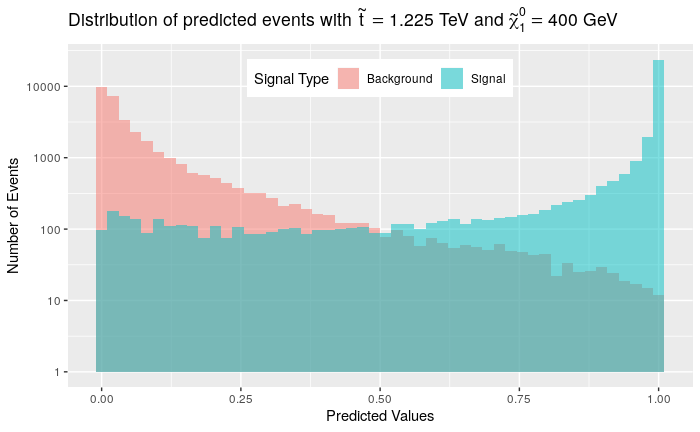
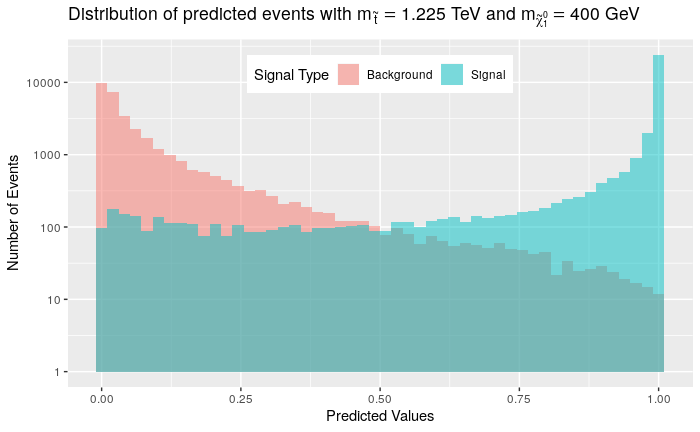
Updates from Overleaf

diff --git a/Sections/Results.tex b/Sections/Results.tex
@@ -9,26 +9,28 @@
 \section{Performance of the classifiers}
 %-------------------------------------------------------------------------%
 %\subsection{Benchmark 1: \texorpdfstring{$\Tilde{t} = 1.2$}{ } TeV and \texorpdfstring{$\Tilde{\chi}_1^0 = 600$}{ } GeV}
-An initial measure to visually understand how our classifiers have performed, a simple Receiver operating characteristic (ROC) curve can be constructed. A ROC curve shows the distribution of the predicted values given between 0 and 1, as a function of FP rate versus TP rate. This allows us to understand how much error we are willing to accept/reject for a given model, where we can produce histograms to observe where the optimum cut-off may be (see Figures \ref{fig:dist_bm1}-\ref{fig:dist_bm_in}. The ROC curve produced for all four benchmark data is presented in Figure \ref{fig:ROC} showing excellent performance across. As expected, however, the benchmark set corresponding to mass parameters within the exclusion curve (benchmark4: $\Tilde{t} = 750$ GeV and $\Tilde{\chi}_1^0 = 1$ GeV) performed the worst amongst the four due to the smaller mass difference between the stops and neutralinos. We also note that the datasets performed better as the mass difference became larger, which is also an expected behavior as the larger mass difference creates more energetic (anti)tops, consequently, more missing energy. This allowed the classifier to pick up such signatures easily, and we suspect that the missing energy's magnitude is the most influential variable the classifier has used when performing its splits. \\
+An initial measure to visually understand how our classifiers have performed, a simple Receiver operating characteristic (ROC) curve can be constructed. A ROC curve shows the distribution of the predicted values given between 0 and 1, as a function of FP rate versus TP rate. This allows us to understand how much error we are willing to accept/reject for a given model, where we can produce histograms to observe where the optimum cut-off may be (see Figures \ref{fig:dist_bm1}-\ref{fig:dist_bm_in}. The ROC curve produced for all four benchmark data is presented in Figure \ref{fig:ROC} showing excellent performance across. As expected, however, the benchmark set corresponding to mass parameters within the exclusion curve (Benchmark4: $m_{\Tilde{t}} = 750$ GeV and $m_{\Tilde{\chi}_1^0} = 1$ GeV) performed the worst amongst the four due to the smaller mass difference between the stops and neutralinos. We also note that the datasets performed better as the mass difference became larger, which is also an expected behavior as the larger mass difference creates more energetic (anti)tops, consequently, more missing energy. This allowed the classifier to pick up such signatures easily, and we suspect that the missing energy's magnitude is the most influential variable the classifier has used when performing its splits. \\
 
 
 \begin{figure}[htbp]
     \centering
-    \includegraphics[width=0.4\linewidth]{ROC_curve.png}
-    \caption{ROC curve for all 4 benchmark points. The forth benchmark corresponding to masses within the exclusion curve performed least well, where the remaining three performed slightly better when the mass difference between the stops and neutralinos became larger.}
+    \includegraphics[width=0.5\linewidth]{ROC_curve.png}
+    \caption{ROC curve for all 4 benchmark points. The forth benchmark corresponding to masses within the exclusion curve performed least well, where the remaining three performed slightly better when the mass difference between the stops and neutralinos become larger.}
     \label{fig:ROC}
 \end{figure} 
 
-Although the Area-under-the-curve (AUC) value is given in Figure \ref{fig:ROC}, it is maximized and does not directly represent the accuracy of our models. The accuracy of our models can be obtained by setting a cut-off to our predictions i.e. a number between 0 and 1. The closer the value is to 1 the lower the accuracy, but deliberately obtaining a high accuracy by setting a smaller value is also conter-intuitive as the Signal-to-Noise Ratio (SBR) will be smaller. Through various trials in cut-off values, it was determined for all four datasets that 0.75 is the optimal value to satisfy both high accuracy and high SBR. \\
+Although the area-under-the-curve (AUC) value is given in Figure \ref{fig:ROC}, it only signifies the maximum possible accuracy the classifier is capable of producing, provided the correct threshold, and so does not directly represent the accuracy of our models. The accuracy of our models can be obtained by setting a cut-off to our predictions i.e. a number between 0 and 1. The closer the value is to 1 the lower the accuracy, but deliberately obtaining a high accuracy by setting a smaller value is also counter-intuitive as the SBR for the luminosity-normalized expected events (Equation (\ref{eq:N})) will not be maximized. Through various trials in cut-off values by observing the distribution of the predicted values shown in Figures \ref{fig:dist_bm1}\textemdash\ref{fig:dist_bm_in}, it was determined for all four datasets that 0.75 is the optimal value to satisfy both high accuracy and high SBR. A summary of values obtained for each datasets are provided in Tables \ref{tab:Values1}\textemdash\ref{tab:Values_in}. \\
 
-For the benchmark point $\Tilde{t} = 1.2$ TeV and $\Tilde{\chi}_1^0 = 600$ GeV, the classifier performed quite well, producing a result of above $90\%$ accuracy. It is expected that the classifier performed less accurately when dealing with signal-like events. It correctly identified a smaller portion of true signal events and incorrectly classified more signal-like background events, as seen in Table \ref{tab:Values1}. The number of expected number of signal is significantly less than the expected number of background, producing an AMS value of 0.1. Considering the definition of AMS given in Section \ref{sec:metrics}, it supports the exclusion limit in Figure \ref{fig:limits}. \\
+For the benchmark point with masses $m_{\Tilde{t}} = 1.2$ TeV and $m_{\Tilde{\chi}_1^0} = 600$ GeV, the classifier performed quite well, producing a result of $91.4 \pm 0.2 \%$ accuracy. It is expected that the classifier performed less accurately when dealing with signal events as it correctly identified a smaller portion of true signal events and incorrectly classified more background-like signal events, as seen in Table \ref{tab:Values1}. The number of expected number of signal is significantly less than the expected number of background, producing an AMS value of 0.1 with an SBR of 0.52\%. Both values are very small, signifying that the background overwhelms and it is expected that for hypothesis tests on either signal-discovery or upper-limits cannot be concluded for neither discovery nor exclusion, respectively. \\
+
+For Benchmarks 2 ($m_{\Tilde{t}} = 1.225$ TeV and $m_{\Tilde{\chi}_1^0} = 400$ GeV) and 3 ($m_{\Tilde{t}} = 1.25$ TeV and $m_{\Tilde{\chi}_1^0} = 100$ GeV), a slight improvement can be seen with the SBR and AMS values, attributed to the larger mass differences between the stops and neutralinos. As noted in previous sections, the larger mass difference produces much more energetic final states, consequently more missing energy, allowing the classifier to distinguish background and signal events better. This relates to the distribution for $\cancel{\it{E}}_{T}$ shown in Figure \ref{fig:topMET} in Section \ref{sec:production}, where the signal events have a wider distribution with a mean centered further away from the background. This is further supported with the distribution plot in Figure \ref{fig:METs}, where we see the distribution become flatter, wider and further away toward higher $\cancel{\it{E}}_{T}$ values as the mass difference between the stops and neutralinos become larger. \\
 
 \noindent\begin{minipage}{\textwidth}
 \centering
   \begin{minipage}[htbp]{0.6\textwidth}
     \centering
     \includegraphics[width=\linewidth]{bm1_distribution.png}
-    \captionof{figure}{Distribution of predicted background (pink) and signal (blue) events. The signal has a sharp drop-off at higher cut-off values unlike the background steadily, almost linearly, decreasing in number toward higher values. Note that y-axis is in a $\log_{10}$ scale.}
+    \captionof{figure}{Distribution of predicted background (pink) and signal (blue) events. The signal has a sharp drop-off at higher cut-off values unlike the background steadily, almost linearly, decreasing in number toward higher values until a rapid drop-off very close to 1.}
     \label{fig:dist_bm1}
   \end{minipage}
   \hfill
@@ -54,16 +56,27 @@ For the benchmark point $\Tilde{t} = 1.2$ TeV and $\Tilde{\chi}_1^0 = 600$ GeV, 
         \label{tab:Values1}
     \end{minipage}
 \end{minipage}
-\hfill \break
+\hfill\break
+\hfill\break
 %-------------------------------------------------------------------------%
 %\subsection{Benchmark 2: \texorpdfstring{$\Tilde{t} = 1.225$}{ } TeV and \texorpdfstring{$\Tilde{\chi}_1^0 = 400$}{ } GeV}
+
+
+\begin{figure}[htbp]
+    \centering
+    \includegraphics[width=\linewidth]{METs.png}
+    \caption{Distribution of $\cancel{\it{E}}_{T}$ for all four signal events and the background events. The distribution skews toward higher $\cancel{\it{E}}_{T}$ values as $\Delta m = m_{\Tilde{t}} - m_{\Tilde{\chi}_1^0}$ becomes larger. The benchmark corresponding to mass parameters within the exclusion curve (black) has the closest distribution to the background events as the lighter neutralino masses contribute to less $\cancel{\it{E}}_{T}$ within the events.}
+    \label{fig:METs}
+\end{figure}
+\hfill\break
+\hfill\break
 
 \noindent\begin{minipage}{\textwidth}
 \centering
   \begin{minipage}[htbp]{0.6\textwidth}
     \centering
     \includegraphics[width=\linewidth]{bm2_distribution.png}
-    \captionof{figure}{Distribution of predicted background (pink) and signal (blue) events. The signal has a sharp drop-off at higher cut-off values unlike the background steadily, almost linearly, decreasing in number toward higher values. Note that y-axis is in a $\log_{10}$ scale.}
+    \captionof{figure}{Distribution of predicted background (pink) and signal (blue) events. The signal has a sharp drop-off at higher cut-off values similarly to the background, wherein the background also decreases rapidly in number toward higher values compared to the signal. There is a slight upward trend for the signal with values closer to zero. } %Note that y-axis is in a $\log_{10}$ scale.}
     \label{fig:dist_bm2}
   \end{minipage}
   \hfill
@@ -89,7 +102,9 @@ For the benchmark point $\Tilde{t} = 1.2$ TeV and $\Tilde{\chi}_1^0 = 600$ GeV, 
         \label{tab:Values2}
     \end{minipage}
 \end{minipage}
-\hfill \hfill \break
+\hfill\break
+\hfill\break
+\hfill\break
 %-------------------------------------------------------------------------%
 %\subsection{Benchmark 3: \texorpdfstring{$\Tilde{t} = 1.25$}{ } TeV and \texorpdfstring{$\Tilde{\chi}_1^0 = 100$}{ } GeV}
 
@@ -98,7 +113,7 @@ For the benchmark point $\Tilde{t} = 1.2$ TeV and $\Tilde{\chi}_1^0 = 600$ GeV, 
   \begin{minipage}[htbp]{0.6\textwidth}
     \centering
     \includegraphics[width=\linewidth]{bm3_distribution.png}
-    \captionof{figure}{Distribution of predicted background (pink) and signal (blue) events. The signal has a sharp drop-off at higher cut-off values unlike the background steadily, almost linearly, decreasing in number toward higher values. Note that y-axis is in a $\log_{10}$ scale.}
+    \captionof{figure}{Distribution of predicted background (pink) and signal (blue) events. The signal has a sharp drop-off at higher cut-off values similarly to the background, wherein the background also decreases rapidly in number toward higher values compared to the signal. There is a slight upward trend for the signal with values closer to zero.}
     \label{fig:dist_bm3}
   \end{minipage}
   \hfill
@@ -127,13 +142,14 @@ For the benchmark point $\Tilde{t} = 1.2$ TeV and $\Tilde{\chi}_1^0 = 600$ GeV, 
 \hfill\break
 %-------------------------------------------------------------------------%
 %\subsection{Benchmark 4: \texorpdfstring{$\Tilde{t} = 750$}{ } GeV and \texorpdfstring{$\Tilde{\chi}_1^0 = 1$}{ } GeV}
+\indent For the mass parameters within the exclusion curve, $m_{\Tilde{t}} = 750$ GeV and $m_{\Tilde{\chi}_1^0} = 1$ GeV, the accuracy drops below 90\% with the given cut-off as shown in Table \ref{tab:Values_in}. This shows that 20\% of the signal events were misclassified (10\% of total data) which is concerning, an interesting characteristic to observe when we visualise the data in the next section. The AMS value of 2.8 obtained by this benchmark is higher than the value found by reference \cite{roxlo2018opening}, given as 1.72. Despite the large AMS value, we remain with a relatively low SBR value at 15.7\%, which is a reassuring result as it supports the the exclusion limit shown in Figure \ref{fig:limits} that indeed this point is unlikely to be the mass parameters for both the stop and the neutralino. As a check, we calculated the relevant values with the same luminosity value as in \cite{roxlo2018opening} where $\text{I.L.}=35.9\text{ fb}^{-1}$. We obtained an AMS value of 1.37 with an associated SBR value of 15.6\%, a much closer AMS value to that in \cite{roxlo2018opening}. This adds further support to the fact that the analysis technique we employed is viable. It is worth noting that different luminosity value affects the calculation of the AMS greatly, but does not affect the statistical nature of our data and analysis. \\
 
 \noindent\begin{minipage}{\textwidth}
   \centering
   \begin{minipage}[htbp]{0.6\textwidth}
     \centering
     \includegraphics[width=\linewidth]{bm_In_distribution.png}
-    \captionof{figure}{Distribution of predicted background (pink) and signal (blue) events. The signal has a sharp drop-off at higher cut-off values unlike the background steadily, almost linearly, decreasing in number toward higher values. Note that y-axis is in a $\log_{10}$ scale.}
+    \captionof{figure}{Distribution of predicted background (pink) and signal (blue) events. The signal has a sharp drop-off at higher cut-off values similarly to the other datasets. However the background has a significantly more steady, almost completely linear, decrease in numbers toward higher values.}
     \label{fig:dist_bm_in}
   \end{minipage}
   \hfill
@@ -159,13 +175,12 @@ For the benchmark point $\Tilde{t} = 1.2$ TeV and $\Tilde{\chi}_1^0 = 600$ GeV, 
         \label{tab:Values_in}
     \end{minipage}
 \end{minipage}
-\hfill\break
 
 \begin{table}[htbp]
     \centering
     \begin{tabular}{c||c|c}
         \toprule
-        Metric & I.L. = $137\text{fb}^{-1}$ & I.L. = $35.9\text{fb}^{-1}$ \\
+        Metric & I.L. = $137\text{ fb}^{-1}$ & I.L. = $35.9\text{ fb}^{-1}$ \\
         \midrule
         \rowcolor{gray!6} $b$ & $343$ & $90$ \\
         $s$ & $54$ & $14$\\
@@ -176,9 +191,6 @@ For the benchmark point $\Tilde{t} = 1.2$ TeV and $\Tilde{\chi}_1^0 = 600$ GeV, 
     \caption{A table comparing values obtained with two different values for the integrated luminosity (I.L.), $137\text{fb}^{-1}$ and $35.9\text{fb}^{-1}$, within the mass parameter $\Tilde{t} = 750$ GeV and $\Tilde{\chi}_1^0 = 1$ GeV. Although the AMS values differ, the SBR is almost identical, showing that the sensitivity is no different across varying luminosity.}
     \label{tab:valsComp}
 \end{table}
-\hfill\break
-
-The AMS value of 0.75 obtained by this benchmark is less than but close to the value found by Roxlo and Reece \cite{roxlo2018opening} which was 1.72. This is a reassuring result, as the exclusion limit shows that indeed this point is unlikely to be the mass parameters for both the stop and the neutralino. \\
 
 XGBoost has an additional useful feature that calculates the \textit{feature importance} according to the \textit{Gain}, \textit{Cover} and \textit{Frequency} of each variable fed into building the classifiers \cite{xgboost}. We have used the metric `Gain' as it corresponds to the contribution of each variable based on the total gain they had when performing splits. We plot the variables accordingly, shown in Figure \ref{fig:imps} below. \\
 
@@ -203,15 +215,14 @@ XGBoost has an additional useful feature that calculates the \textit{feature imp
     \centering
     \includegraphics[width=\linewidth, keepaspectratio=true]{imp_in.png}
   \end{minipage}
-  \caption{The feature importance for all four benchmark points ordered from top-left to bottom-right. All four classifiers considers $\cancel{\it{E}}_{T}$ the most important feature, followed by the $\phi$ component of $\cancel{\it{E}}_{T}$ and the lepton as well as the lepton's $p_T$, not necessarily in this order. Furthermore the fifth most important variable is $H_T$ opposed to a particular jet's $p_T$. The clustering helps us to undestand the which variables were grouped together when considering a split. (??  Unsure about this explanation as I cannot find a good reference on the internet for it.)}
+  \caption{The feature importance for all four benchmark points ordered from top-left to bottom-right. All four classifiers considers $\cancel{\it{E}}_{T}$ the most important feature, followed by the $\phi$ component of $\cancel{\it{E}}_{T}$ and the lepton as well as the lepton's $p_T$, not necessarily in this order. Furthermore the fifth most important variable is $H_T$ opposed to a particular jet's $p_T$. The clustering helps us to undestand the which variables were grouped together when considering a split.}
   \label{fig:imps}
 \end{figure}
 
 From the bar-plots shown in Figure \ref{fig:imps}, we notice that the algorithm had the highest contribution from the variable $\cancel{\it{E}}_{T}$ thus making it the most important. This is to be expected as we know that the neutralinos contribute to $\cancel{\it{E}}_{T}$ but also the SM neutrinos due to the highly energetic top quarks produced in our signal events. The next highest contributors were the $\phi$ components of $\cancel{\it{E}}_{T}$ and the lepton as well as its $p_T$, followed by the hadronic energy $H_T$. These five variables were consistently the top-five contributors to the algorithm and observing the grouping (noted as clusters in the legend), we can infer that the in particular, that the $\phi$ components of $\cancel{\it{E}}_{T}$ and the lepton have some sort of correlation with an occasional contribution from the lepton's $p_T$. We also observe that the $p_T$ of the $b$-jet and the remaining jet with highest $p_T$ (referred to as jet-1 henceforth) occasionally have slight contribution to the algorithm, with the remaining variables considered almost irrelevant consistently.
 %-------------------------------------------------------------------------%
 \section{Data Visualisation using \textit{tourr}}
-
-In this section, I would like to show how data visualisation could be useful in helping understand new physics beyond the SM better. By creating a two-dimensional projection of the data entailing of higher dimensions (i.e. many variables), we can observe the distribution of data points in such a projection. The \textit{tourr} package from R \cite{tourr} is an ideal program for such a task, producing interesting results. The projected tour requires an index to minimize the distance between certain points in a dataset, in which we chose to utilize the \textit{alpha-hull} index. A corresponding basis is generated with each projection, and the algorithm will search through potentially more optimal projections through each iteration. NEED TO EXPLAIN ABOUT ALPHA INDEX A BIT AND SHOW SOME SPLOTS AND TALK ABOUT THE PHYSICS WE CAN INTERPRET FROM IT.
+In this section, I would like to present how data visualisation could be useful in helping understand new physics beyond the SM better. By creating a two-dimensional projection of the data entailing of higher dimensions (i.e. many variables), we can observe the distribution of data points in a given projection. The \textit{tourr} package from R \cite{tourr} is an ideal program for such a task, where the projected tour requires an index to minimize the distance between certain points in a dataset, in which we chose to utilize the \textit{alpha-hull}\footnote{The alpha-hull index was developed by a student who worked with my supervisors in an undergraduate research project.} index. Each projection generated has a corresponding basis in matrx representation, and the algorithm will search through potentially more optimal projections through each iteration. 
 
 
 \begin{figure}[htbp]
@@ -232,7 +243,7 @@ In this section, I would like to show how data visualisation could be useful in 
     \centering
     \includegraphics[width=\linewidth, keepaspectratio=true]{bm_I_proper-025.png}
   \end{minipage}
-  \caption{Guided tour of benchmark 4: $\Tilde{t} = 750$ GeV and $\Tilde{\chi}_1^0 = 1$ GeV. }
+  \caption{Guided tour of benchmark 4: $m_{\Tilde{t}} = 750$ GeV and $m_{\Tilde{\chi}_1^0} = 1$ GeV. }
   \label{fig:bmIn_tour}
 \end{figure}
 
@@ -254,7 +265,7 @@ In this section, I would like to show how data visualisation could be useful in 
     \centering
     \includegraphics[width=\linewidth, keepaspectratio=true]{bm_I_false-024.png}
   \end{minipage}
-  \caption{Guided tour of benchmark 4: $\Tilde{t} = 750$ GeV and $\Tilde{\chi}_1^0 = 1$ GeV. }
+  \caption{Guided tour of benchmark 4: $m_{\Tilde{t}} = 750$ GeV and $m_{\Tilde{\chi}_1^0} = 1$ GeV. }
   \label{fig:bmInF_tour}
 \end{figure}
 
@@ -278,7 +289,7 @@ In this section, I would like to show how data visualisation could be useful in 
     \centering
     \includegraphics[width=\linewidth, keepaspectratio=true]{bm3_proper-020.png}
   \end{minipage}
-  \caption{Guided tour of benchmark 4: $\Tilde{t} = 1.25$ TeV and $\Tilde{\chi}_1^0 = 100$ GeV. }
+  \caption{Guided tour of benchmark 4: $m_{\Tilde{t}} = 1.25$ TeV and $m_{\Tilde{\chi}_1^0} = 100$ GeV. }
   \label{fig:bm3_tour}
 \end{figure}
 
@@ -300,7 +311,7 @@ In this section, I would like to show how data visualisation could be useful in 
     \centering
     \includegraphics[width=\linewidth, keepaspectratio=true]{bm3_false-023.png}
   \end{minipage}
-  \caption{Guided tour of benchmark 4: $\Tilde{t} = 1.25$ TeV and $\Tilde{\chi}_1^0 = 100$ GeV. }
+  \caption{Guided tour of benchmark 4: $m_{\Tilde{t}} = 1.25$ TeV and $m_{\Tilde{\chi}_1^0} = 100$ GeV. }
   \label{fig:bm3F_tour}
 \end{figure}
 %  \begin{minipage}[htbp]{0.4\textwidth}

diff --git a/Sections/Chosen_Method.tex b/Sections/Chosen_Method.tex
@@ -59,7 +59,7 @@ There are many tree-based methods that vary in the data sampling method and how 
 %-------------------------------------------------------------------------%
 \section{Metrics for model performance}
 \label{sec:metrics}
-The performance of a classifier can be summarized into a single table known as a confusion matrix. Displayed in Table \ref{tab:ConfMat}, a confusion matrix visually shows the distribution of correctly and incorrectly classified points within the dataset. The correctly classified signal and background events are the True Positives (TP) and True Negatives (TN), respectively. Likewise, the incorrectly classified signal and background events are the False Negatives (FN) and False Positive (FP), respectively. The accuracy of the classifier is given by (TP+TN)/N and in a regression setting such as those in xgboost, a cut-off varies this value by a slight margin. Choosing the ideal cut-off is more important than achieving high accuracy, as we wish to maximize the signal-to-background ratio (SBR)\footnote{The signal-to-background ratio is defined to be the proportion of signal over the proportion of background events. In our analysis, we look to the luminosity-normalized TP and FP rates for signal and background respectively.}\\
+The performance of a classifier can be summarized into a single table known as a confusion matrix. Displayed in Table \ref{tab:ConfMat}, a confusion matrix visually shows the distribution of correctly and incorrectly classified points within the dataset. The correctly classified signal and background events are the True Positives (TP) and True Negatives (TN), respectively. Likewise, the incorrectly classified signal and background events are the False Negatives (FN) and False Positive (FP), respectively. The accuracy of the classifier is given by (TP+TN)/N and in a regression setting such as those in xgboost, a cut-off varies this value by a slight margin. Choosing the ideal cut-off is more important than achieving high accuracy, as we wish to maximize the Signal-to-Background Ratio (SBR)\footnote{The signal-to-background ratio is defined to be the proportion of signal over the proportion of background events. In our analysis, we look to the luminosity-normalized TP and FP rates for signal and background respectively.}\\
 
 % Confusion matrix template
 \begin{table}[htbp]
@@ -92,7 +92,7 @@ where $s$ and $b$ are the \textit{luminosity-normalized} TP and FP rates, respec
     s(b) = N_{s(b)}\times \epsilon_{s(b)} 
     \label{eq:N}
 \end{equation}
-where $N_{s(b)} = \sigma \int L(t) dt = \sigma \times 137$ \cite{thomson2013modern} is the number of expected events, and $\epsilon_{s(b)}=\text{TP(FP)}/\text{N}$ is the efficiency of the classifier given a dataset of size N, where in our case, would be a third of each dataset partitioned as our test set. \\
+where $N_{s(b)} = \sigma \int L(t) dt = \sigma \times 137$ \cite{thomson2013modern} is the number of expected events, and $\epsilon_{s(b)}=\text{TP(FP)}/\text{N}$ is the efficiency of the classifier given a dataset of size N, where in our case, would be a third of each dataset partitioned as our test set. The signal and background values when calculating the SBR we wish to maximize will refer to the value obtained via Equation (\ref{eq:N}) henceforth. \\
 
 The Gaussian significance discovery, discussed briefly in Section \ref{sec:freqStat}, with an estimated standard deviation\footnote{The standard deviation is actually given by $(n-\mu_b)/\sqrt{\mu_b}$ as the Poisson fluctuation of the background has a standard deviation of $\sqrt{\mu_b}$. Here, $n$ is the number of events and $\mu_b$ is the mean of the background. These numbers are replaced with their empirical counterparts: $s+b$ and $b$ respectively.} of $s/\sqrt{b}$ only hold when $s \ll b$ and $b\gg1$. This is not true in practice, therefore we turn to an approximate measure such as the AMS. 
 %This measure is a derivation of the significance Z given by Equation (\ref{eq:Z})

diff --git a/Sections/Simulations.tex b/Sections/Simulations.tex
@@ -1,12 +1,13 @@
 %In this section, the method chosen to perform simulations for both the top and stop decays are shown. In addition, the preparation of data is explained in order to jusitfy the usage of ML and their results.\\
 %-------------------------------------------------------------------------%
 \section{Background and Signal of interest}
+\label{sec:production}
 As discussed in Section \ref{sec:Sims}, MadGraph5 is the chosen software to perform particle collider simulations, in which one million events were produced for both the signal and background events. At the generator level, in order to meet the pre-selection criteria listed in the following subsection, we limit the missing transverse energy $\cancel{\it{E}}_{T}$ to a minimum of 200 GeV as the signatures significantly differ between our signal and backgrounds as seen in Figure \ref{fig:topMET}. From the histogram, it is evident that the background events have a distribution much closer to zero with a mean of roughly 50 GeV without this requirement. The difference in MET affects the results upon building the classifiers and efficiencies, thus by requiring the signatures to be in a similar range we can observe the background events distributed closer to that of the signal, thus the pushing the efficiency and sensitivity in our results to a reasonable range. In addition, MG5 calculates a cross-section value associated to each process generated, also required for our analysis. \\
 
 \begin{figure}[htbp]
     \centering
     \includegraphics[width=\linewidth]{top-MET_new.png}
-    \caption{A histogram to depict the variation in generator-level and detector-level simulation in the top quark production $pp \rightarrow t\Bar{t} \rightarrow bW^{-}\Bar{b}W^{+} \rightarrow l^{\pm}\nu_l(\Bar{\nu}_l)q\Bar{q}$, created using MadAnalysis5 \cite{conte2013madanalysis, conte2014designing, dumont2015toward}. In the legend, the terms `GenLvl noCut' refers to the events plotted with the LHE file corresponding to the hard process alone without placing the requirement $\cancel{\it{E}}_{T}>200$ GeV. Thus the lines represented with the term `w/Cut' corresponds to events simulated with this requirement. Furthermore, the detector effects on these events can be seen associated to those with `DetLvl'. By placing the requirement of $\cancel{\it{E}}_{T}>200$ GeV we observe the missing energy for our background shifts closer to the distribution for our signal events. }
+    \caption{A histogram to depict the variation in generator-level and detector-level simulation in the top quark production $pp \rightarrow t\Bar{t} \rightarrow bW^{-}\Bar{b}W^{+} \rightarrow l^{\pm}\nu_l(\Bar{\nu}_l)q\Bar{q}$, created using MadAnalysis5 \cite{conte2013madanalysis, conte2014designing, dumont2015toward}. In the legend, the terms `GenLvl noCut' refers to the events plotted with the LHE file corresponding to the hard process alone without placing the requirement $\cancel{\it{E}}_{T}>200$ GeV. Thus the lines represented with the term `w/Cut' corresponds to events simulated with this requirement. Furthermore, the detector effects on these events can be seen associated to those with `DetLvl'. By placing the requirement of $\cancel{\it{E}}_{T}>200$ GeV we observe the missing energy for our background shifts closer to the distribution for our signal events. Note that the signal used in this event is the first benchmark point with masses $m_{\Tilde{t}} = 1.2$ TeV and $m_{\Tilde{\chi}_1^0} = 600$ GeV.}
     \label{fig:topMET}
 \end{figure}
 

diff --git a/Sections/Stops.tex b/Sections/Stops.tex
@@ -113,7 +113,7 @@ The path sitting around $ m_{\tilde{t}} \approx 1.2$ TeV is an interesting path 
     \centering
     \begin{tabular}{c|c|c|c} 
     \toprule
-    Benchmark No. & Position & $\Tilde{t}$ Mass (TeV) & $\Tilde{\chi}_1^0$ Mass (GeV) \\
+    Benchmark No. & Position & $m_{\Tilde{t}}$ (TeV) & $m_{\Tilde{\chi}_1^0}$ (GeV) \\
     \midrule
     \rowcolor{gray!6} 1 & Outside & $ 1.2 $ & $ 600 $ \\
     2 & Outside & $ 1.225 $ & $ 400 $ \\
